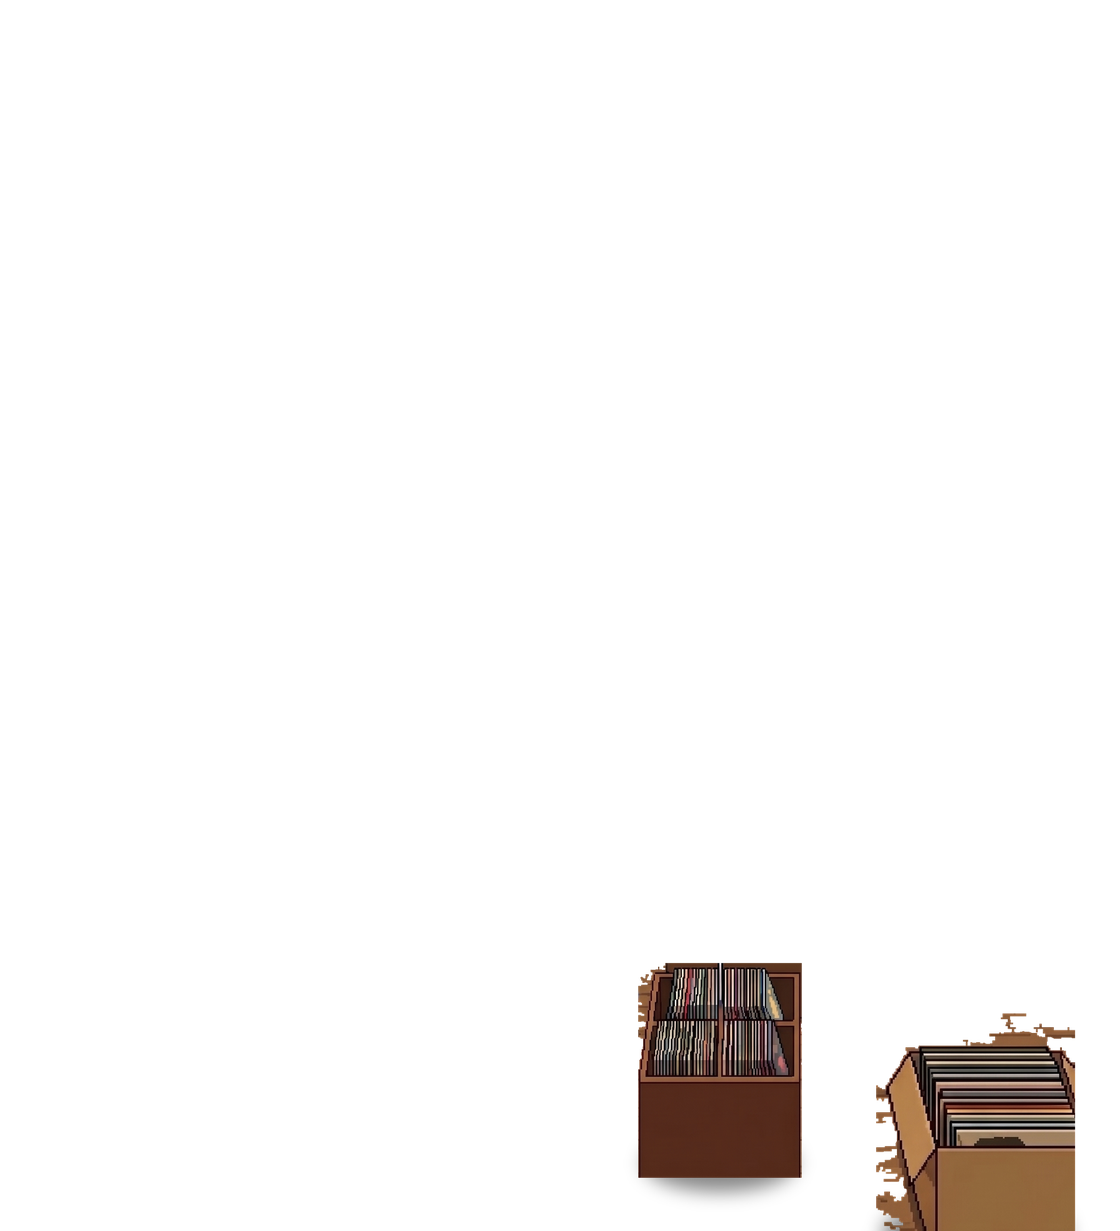
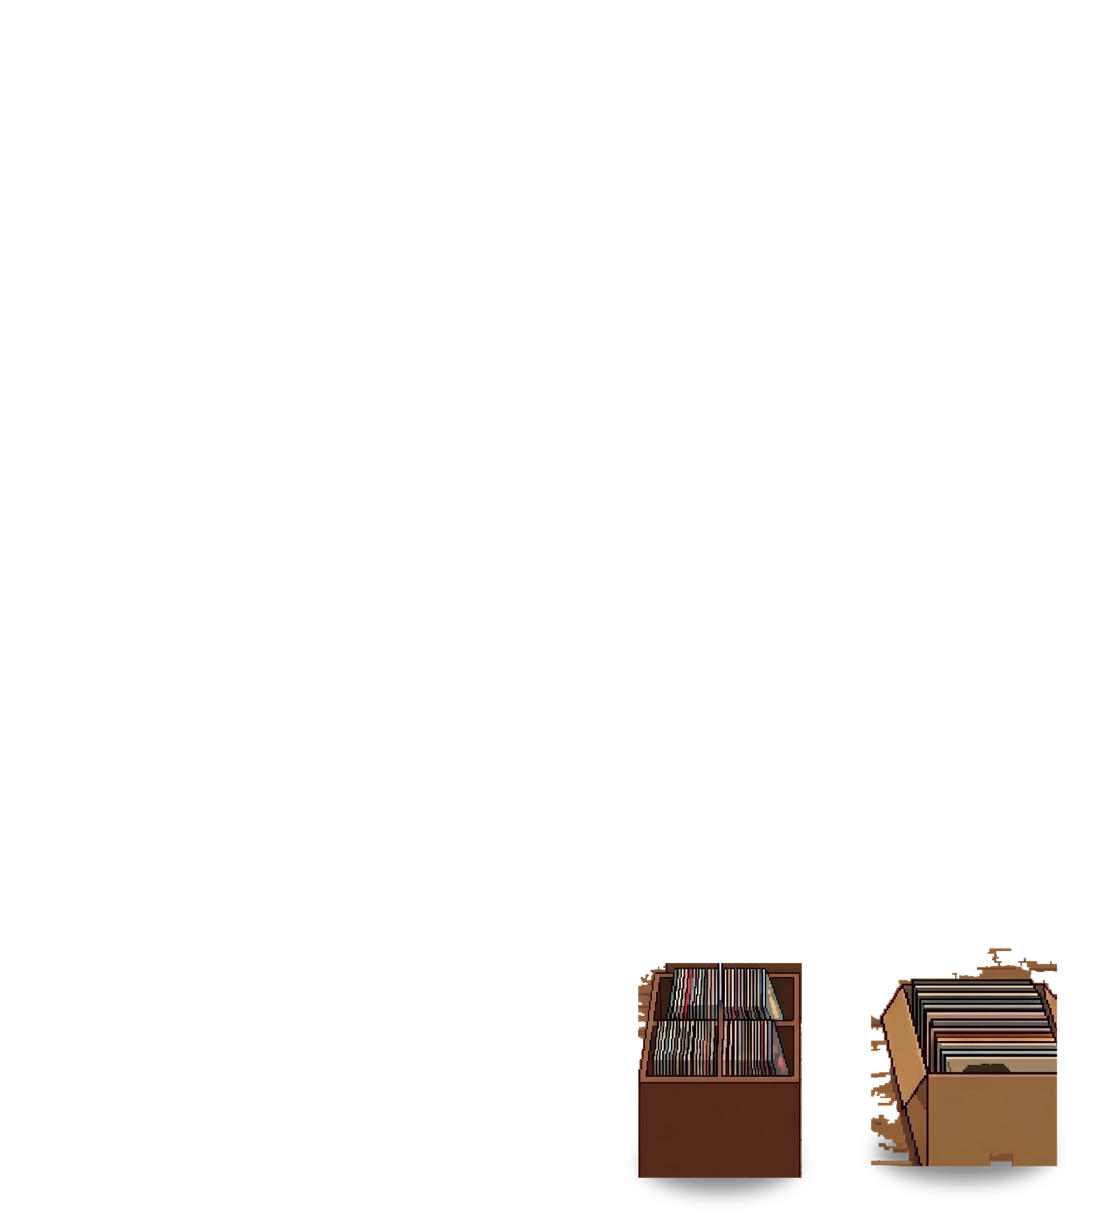
右前紙箱被畫面下緣切掉，往上挪
box1 原本 (1400,1620,0.92)：1620 + 410×0.92 = 1997 > 畫布高 1970，底部被切。
改 (1392,1516,0.86)，下方留 100px 地板。
LAYOUT 挪家具時要自己算 dy + h×scale ≤ 1970。

Claude-Session: https://claude.ai/code/session_019QrQGEkqCT46LjRfRKh6Qz

Changed region(s): [[0.7812, 0.7717, 0.9688, 1.0]]

diff --git a/scripts/trace-shop-art.py b/scripts/trace-shop-art.py
@@ -90,7 +90,7 @@ LAYOUT = {
     'spkR':    (1069, 1052, 1.0, False),   # 右喇叭往右挪 53px，貼到檯面右端
     'rbins':   None,                       # 右邊那組貼右牆，不動
     'crate':   (1020, 1540, 0.60, True),   # 原本擋在左前方 → 縮小挪到中右前，讓出走道
-    'box1':    (1400, 1620, 0.92, True),   # 往右下挪
+    'box1':    (1392, 1516, 0.86, True),   # 往右挪；不能太下面，會被畫面下緣切掉底部
     'box2':    'drop',                     # 兩個紙箱疊在一起太擠，收掉一個
 }
 

diff --git a/PROJECT_MEMORY.md b/PROJECT_MEMORY.md
@@ -1,5 +1,15 @@
 # dip vinyl 專案備忘錄
 
+### 2026-09-08｜dip-vinyl-shop｜右前紙箱被畫面下緣切掉，往上挪
+
+店主：「右邊的木箱被切到了」。`LAYOUT['box1']` 原本 `(1400, 1620, 0.92)`，
+紙箱高 410×0.92=377，1620+377=1997 超出畫布高 1970 → 底部被切。
+改成 `(1392, 1516, 0.86)`（1516+353=1869），下方留 100px 地板。
+**教訓：`LAYOUT` 挪家具時要自己算 dy + h×scale ≤ 1970。**
+
+- 主要檔案：`scripts/trace-shop-art.py`、`art/shop2-fg-front.png`
+- 驗證：截圖確認紙箱四邊完整、下方看得到地板。
+
 ### 2026-09-08｜dip-vinyl-shop｜喇叭找回來：檯面上緣是水平的、合成順序要櫃檯先畫
 
 同一條分支（`claude/card-game-character-creation-xpgz1f`，PR #12 草稿，**未合併 main**）。
